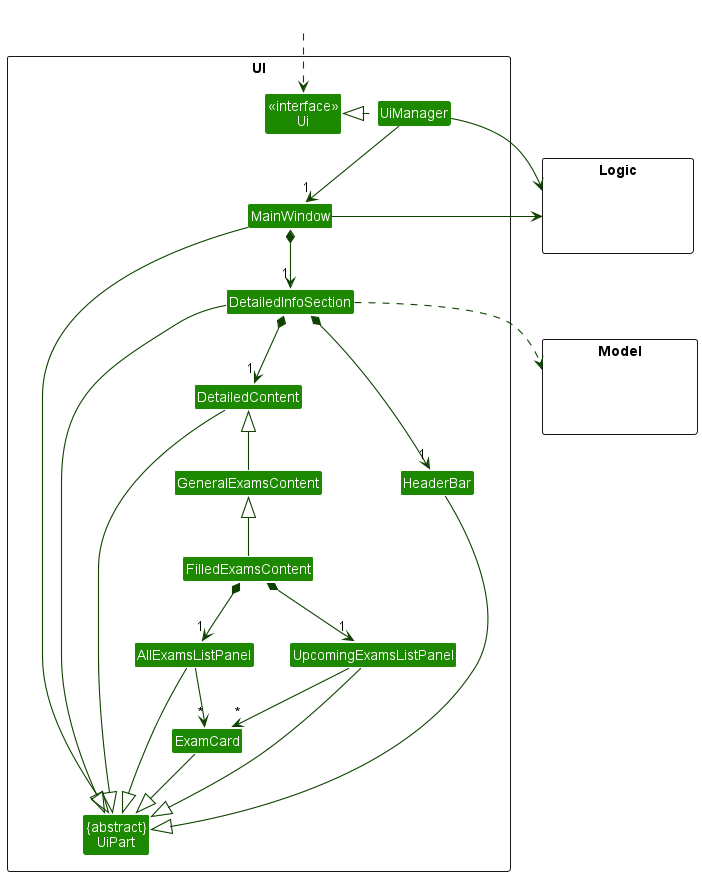
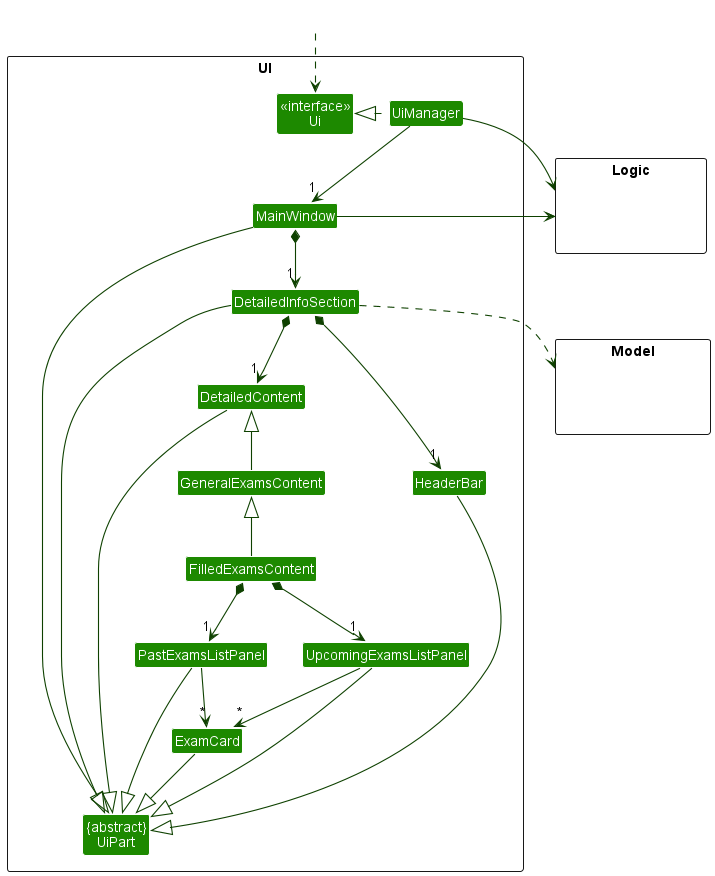
Update Exam Section

diff --git a/src/main/java/seedu/address/ui/exam/FilledExamsContent.java b/src/main/java/seedu/address/ui/exam/FilledExamsContent.java
@@ -17,17 +17,18 @@ import seedu.address.ui.homework.FilledHomeworkContent;
  */
 public class FilledExamsContent extends GeneralExamsContent {
     private static final Logger logger = LogsCenter.getLogger(FilledHomeworkContent.class);
-
+    private static final String PAST_EXAMS_LIST_NAME = "Past Exams: ";
+    private static final String UPCOMING_EXAMS_LIST_NAME = "Upcoming Exams: ";
     private static final String FXML = "ExamsContent.fxml";
     private final Name studentName;
 
     @FXML
     private Label name;
     @FXML
-    private Label examsListName;
+    private Label pastExamListName;
 
     @FXML
-    private StackPane examsListPlaceholder;
+    private StackPane pastExamsListPlaceholder;
 
     @FXML
     private Label upcomingExamsListName;
@@ -43,14 +44,14 @@ public class FilledExamsContent extends GeneralExamsContent {
         studentName = student.getName();
 
         name.setText(String.format("Full Name: %s", student.getName().getFirstName()));
-        examsListName.setText("All Exams: ");
+        pastExamListName.setText(PAST_EXAMS_LIST_NAME);
 
-        // Set the all exams list panel to display the all the exams of the student
-        ObservableList<Exam> examsList = student.getExamsList();
-        ExamsListPanel examsListPanel = new ExamsListPanel(examsList);
-        examsListPlaceholder.getChildren().add(examsListPanel.getRoot());
+        // Set the past exams list panel to display the past exams of the student
+        ObservableList<Exam> pastExamsList = student.getPastExamsList();
+        ExamsListPanel pastExamsListPanel = new ExamsListPanel(pastExamsList);
+        pastExamsListPlaceholder.getChildren().add(pastExamsListPanel.getRoot());
 
-        upcomingExamsListName.setText("Most recent upcoming Exams at a glance: ");
+        upcomingExamsListName.setText(UPCOMING_EXAMS_LIST_NAME);
 
         // Set the upcoming exams list panel to display the upcoming exams of the student
         ObservableList<Exam> upcomingExamsList = student.getUpcomingExamsList();

diff --git a/docs/UserGuide.md b/docs/UserGuide.md
@@ -182,6 +182,8 @@ Examples:
 * `view-lesson` Displays the lesson history for all the tutor’s students.
 * `view-lesson name/John` Displays the lesson history for the student named John. If two students have the same name, then ask which one to show.
 
+### Quick Access Buttons On Each Student Card
+
 
 --------------------------------------------------------------------------------------------------------------------
 
